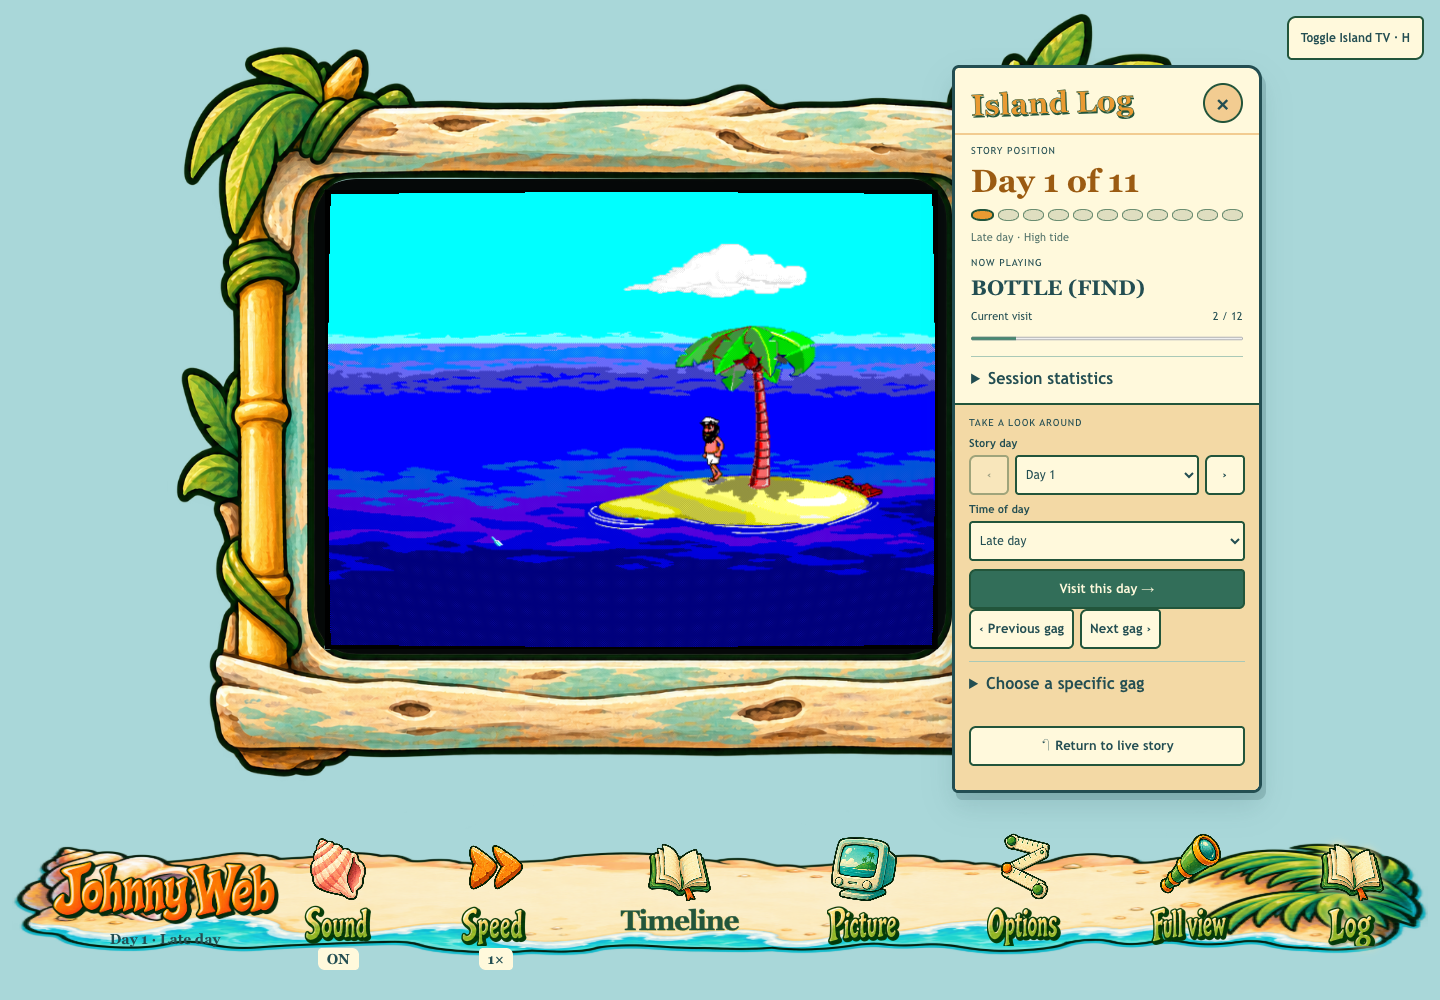
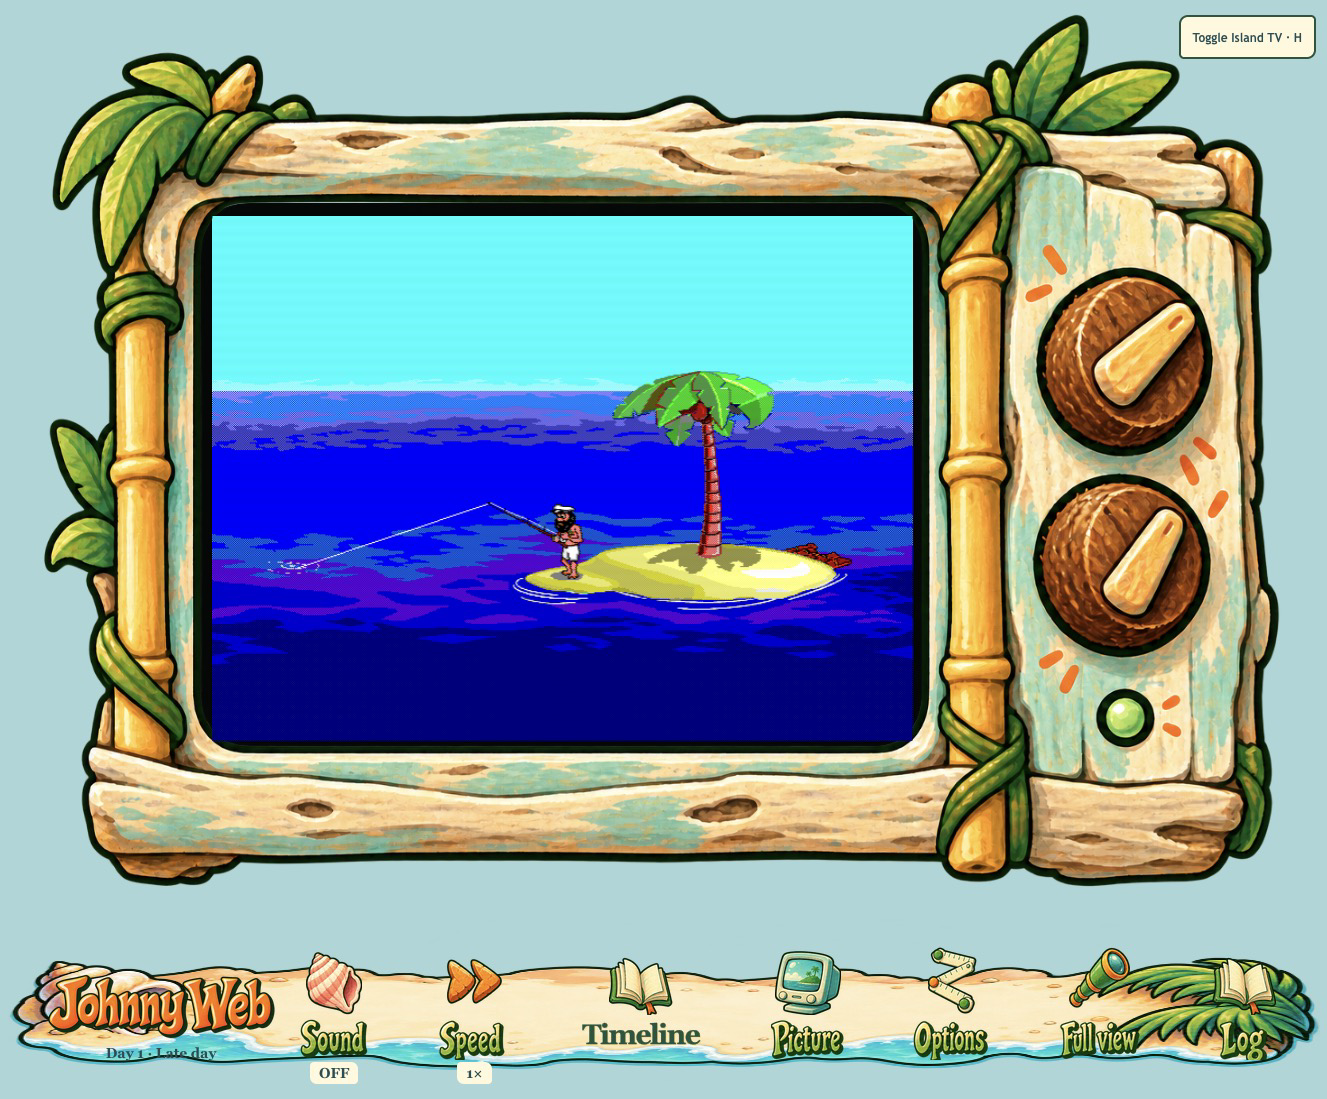
docs: prepare Island TV v1.4.0 release and update UI screenshot

diff --git a/docs/releases/v1.4.0-plan.md b/docs/releases/v1.4.0-plan.md
@@ -1,0 +1,34 @@
+# v1.4.0 — Island TV: release plan
+
+Status: proposed minor release, unpublished. Latest published release: v1.3.0. `package.json` remains at 1.3.0 until release preparation is ready. The UI/CRT features are still in draft PRs.
+
+## Scope and merge sequence
+
+1. [#84 — presentation research](https://github.com/khawkins98/johnny_web/pull/84), based on main.
+2. [#85 — optional CRT implementation](https://github.com/khawkins98/johnny_web/pull/85), currently based on #84's branch.
+3. [#86 — Island TV and playback UI](https://github.com/khawkins98/johnny_web/pull/86), currently based on #85's branch.
+
+Finish review and merge in that order. Retarget each remaining PR to main after its parent lands, resolve any resulting conflicts and verify the final diff. CI currently runs for PRs targeting main and pushes to main; a green local run on the stacked branch is not evidence of final-main CI.
+
+Use the [Unreleased changelog](../../CHANGELOG.md) as the source of release notes. Include the selected day/time playback correction already landed in #83. No engine-faithfulness expansion is claimed beyond the previously documented evidence.
+
+## Validation already completed
+
+- Full serial suite on the consolidated UI branch: 895 passed, two skipped, before the later default/art/documentation refinements.
+- Latest targeted UI/CRT suite after Balanced/Stretch became defaults: 93 passed; production build passed.
+- Isolated actual-game browser checks at desktop/mobile sizes, including 1940×1200, 1440×1000, 1024×768 and 390×844: launch/return-to-title, native 640×480 buffers, real CRT output, saved preference retention, pause/speed/dials, TV hide/restore, Log/gag navigation, clock saving and progressive disclosure.
+- Options keyboard focus wrapping and WCAG2A/AA audit: zero reported violations; heading text-shadow contrast also reviewed visually.
+- README screenshot supplied by the user, with Log closed to show hardware controls; original-game art credit retained. Original game archives are not release assets.
+
+## Remaining release gates
+
+- [ ] Complete review of #84–#86 and merge/retarget the stack onto main.
+- [ ] Bump `package.json` to 1.4.0 in release preparation; finalize the changelog heading and release date. Check for other version references then.
+- [ ] Run `pnpm install --frozen-lockfile`, `pnpm test`, and `pnpm run build` on the exact merged release commit; inspect skips and CI results.
+- [ ] Run a Pages-base build (`VITE_BASE_PATH=/johnny_web/ pnpm run build`) and check the deployed site after its main-branch workflow completes. Publishing a GitHub release does not itself deploy Pages.
+- [ ] Smoke-test current Chrome, Firefox and Safari: import, splash pointer/keyboard start, saved preferences, no-WebGL fallback, Balanced CRT, sound, pause, time saving, dialogs, mobile/short windows, and return from a background tab. Current automated visual checks used isolated Chromium.
+- [ ] Check CRT appearance at DPR 1, 1.25 and 2 and sustained playback on a modest device. Confirm the default remains usable and Original picture is easy to find.
+- [ ] Replace the draft release target with the exact merged main SHA, check its comparison against v1.3.0 and confirm the package/version/tag agree. Do not tag an unmerged feature commit.
+- [ ] Publish v1.4.0 only after the gates are complete and the user authorizes publication. Then verify the public release, source links and deployed app.
+
+The GitHub draft may initially point at the feature branch to keep the proposal concrete. It is planning material, not a release candidate or an instruction to publish that branch.

diff --git a/CHANGELOG.md b/CHANGELOG.md
@@ -2,6 +2,17 @@
 
 This changelog tracks the browser project. Its version numbers are separate from the version of the original Johnny Castaway game data. A number such as (#53) is a GitHub issue or pull request.
 
+## Unreleased — Island TV (planned v1.4.0)
+
+- Added an illustrated driftwood/bamboo TV, coconut controls and a painted playback shelf. The picture dial selects CRT presets, the speed dial changes playback rate, and the green button pauses/resumes the screensaver. The Johnny Web wordmark links to the project background (#86).
+- Replaced Classic/Enhanced launch choices with one **Play** button. Clicking the original splash picture also starts playback. Options puts picture looks, sound and clock first, with fine tuning, story tools, diagnostics and shortcuts revealed on demand. Existing individual preferences are retained (#86).
+- Added Creative CRT, experimental VGA beam and Libretro CRT-Lottes picture models, with independently remembered tuning and named Creative presets. New preferences default to **Balanced CRT** and **Stretch to fill**; **Original picture** turns CRT off. The game keeps its native buffers, and unavailable WebGL falls back to the normal picture (#85, #86).
+- Added the Island Log with day/gag navigation, current story position and expandable session statistics. Temporary time previews can be saved as the current advancing story clock, without saving scene-specific sky/tide requirements. Timeline playback respects the selected story day and time band (#83, #86).
+- **Toggle Island TV / H** hides/restores the cabinet and shelf; the unobstructed picture fits in 0.5× steps. **Full view / F** fills the page with the screensaver without changing browser fullscreen. **Space** pauses engine animation, walking, poses, transitions and audio together (#86).
+- Added a presentation/shader research lab, source credits, original interface-art prompts, and maintenance guidance for future contributors. Retired the unused early pixel-icon study while preserving its provenance in the docs (#84–#86).
+
+Release planning and outstanding checks: [v1.4.0 plan](docs/releases/v1.4.0-plan.md). This section describes pending work and is not a published release.
+
 ## v1.3 — Normal play, checked
 
 - Fixed black patches in the daytime ocean. The three day ocean screens draw their dark cloud reflections in palette colour 0, which we treated as transparent on full screens as well as on sprites. Screens are now drawn opaque, so the reflections show in their magenta colour as in the original; sprites still treat colour 0 as transparent (#53).

diff --git a/docs/releases/v1.4.0-notes.md b/docs/releases/v1.4.0-notes.md
@@ -1,0 +1,21 @@
+# v1.4.0 — Island TV
+
+> Unpublished draft. Proposed version and notes; PRs #84–#86 must land and the release plan must be completed before publication.
+
+Johnny has a new home in the browser: a hand-painted castaway TV with coconut dials and a beachcomber's control shelf.
+
+- **One Play button.** Start from the shelf or click/tap the original title picture. Options keeps everyday choices first and reveals advanced tuning when needed.
+- **Working TV hardware.** Turn the upper dial through picture presets, use the lower dial for speed, and pause with the green button or Space. Walking, transitions, animation and sound pause together.
+- **CRT picture choices.** Creative CRT, experimental VGA beam and Libretro CRT-Lottes, with remembered tuning and named Creative presets. Balanced CRT and Stretch to fill are the new defaults; saved preferences stay intact, and Original picture disables CRT.
+- **Explore the island.** The Log provides day/gag navigation, current story position and expandable session statistics. Save a preview time as the current advancing story clock. Timeline playback honors the selected day/time.
+- **Clear the furniture.** H hides/restores Island TV and uses half-step picture scaling. F fills the page with the screensaver without making the browser fullscreen.
+
+The presentation lab and art-maintenance guide include research, source credits and original prompts. The original game buffers remain 640×480; CRT is a separate presentation effect, with a normal-picture fallback when WebGL is unavailable.
+
+![Johnny Web Island TV with coconut controls visible](https://raw.githubusercontent.com/khawkins98/johnny_web/khawkins98/adventure-playback-toolbar/docs/images/island-tv-ui.png)
+
+[Why this project exists](https://www.allaboutken.com/posts/20261019-johnny-castaway-browser/) · [Changelog](https://github.com/khawkins98/johnny_web/blob/main/CHANGELOG.md)
+
+The original Johnny Castaway game data is not included. Import your own copy as described in the README. Original game artwork © Dynamix / Sierra On-Line; the surrounding interface art was made for this project.
+
+Release checklist: `docs/releases/v1.4.0-plan.md`. Before publishing, point this draft at the final merged main commit and change the preview image URL from the feature branch to the v1.4.0 tag. Final release-validation results will replace this paragraph.

diff --git a/docs/island-ui-art.md b/docs/island-ui-art.md
@@ -158,4 +158,4 @@ The unused `deck-icons/` SVG study was removed after checking for runtime refere
 
 The splash shelf reuses `title.png` in `start-project-link`, a native anchor to the project-background article on AllAboutKen.com with `target="_blank"` and `rel="noopener noreferrer"`. It sits before Play/Options/About on desktop and spans a separate row on narrow screens. Keep this project link separate from the title-picture Play button so opening project information never starts playback. The shared artwork highlight applies to its wordmark too.
 
-Default update: absent scale/CRT preferences now use Stretch and Balanced CRT. An explicitly saved CRT-off state remains off, and other saved picture/scale choices are unchanged. The README screenshot uses a fresh browser session with these defaults. That documentation screenshot is intentionally committed at the user's request; incidental research captures remain in ignored scratchpad.
+Default update: absent scale/CRT preferences now use Stretch and Balanced CRT. An explicitly saved CRT-off state remains off, and other saved picture/scale choices are unchanged. The README uses the user-supplied interface screenshot with Log closed so the coconut dials and pause button remain visible. That documentation screenshot is intentionally committed at the user's request; incidental research captures remain in ignored scratchpad.

diff --git a/README.md b/README.md
@@ -24,10 +24,10 @@ For tests and command-line tools that need game data, follow the [local extracti
 ## Playback
 
 <p align="center">
-  <img src="docs/images/island-tv-ui.png" width="960" alt="Johnny Web with its painted driftwood TV, Balanced CRT picture, playback shelf and Island Log">
+  <img src="docs/images/island-tv-ui.png" width="960" alt="Johnny Web with its painted driftwood TV, coconut picture and speed dials, green pause button and playback shelf">
 </p>
 
-The current Island TV interface. Original Johnny Castaway game artwork © Dynamix / Sierra On-Line; the surrounding interface illustrations were created for this project.
+The Island TV interface, with the Log closed to show the TV controls. Original Johnny Castaway game artwork © Dynamix / Sierra On-Line; the surrounding interface illustrations were created for this project.
 
 Press **Play** to start Johnny with the illustrated Island TV, Balanced CRT, stretch-to-fill picture, drifting clouds and original waves/story clock. **Options** remembers your individual choices, including preferences saved before this unified launch flow. Picture presets, sound and clock come first; fine tuning and developer controls expand when needed.
 
